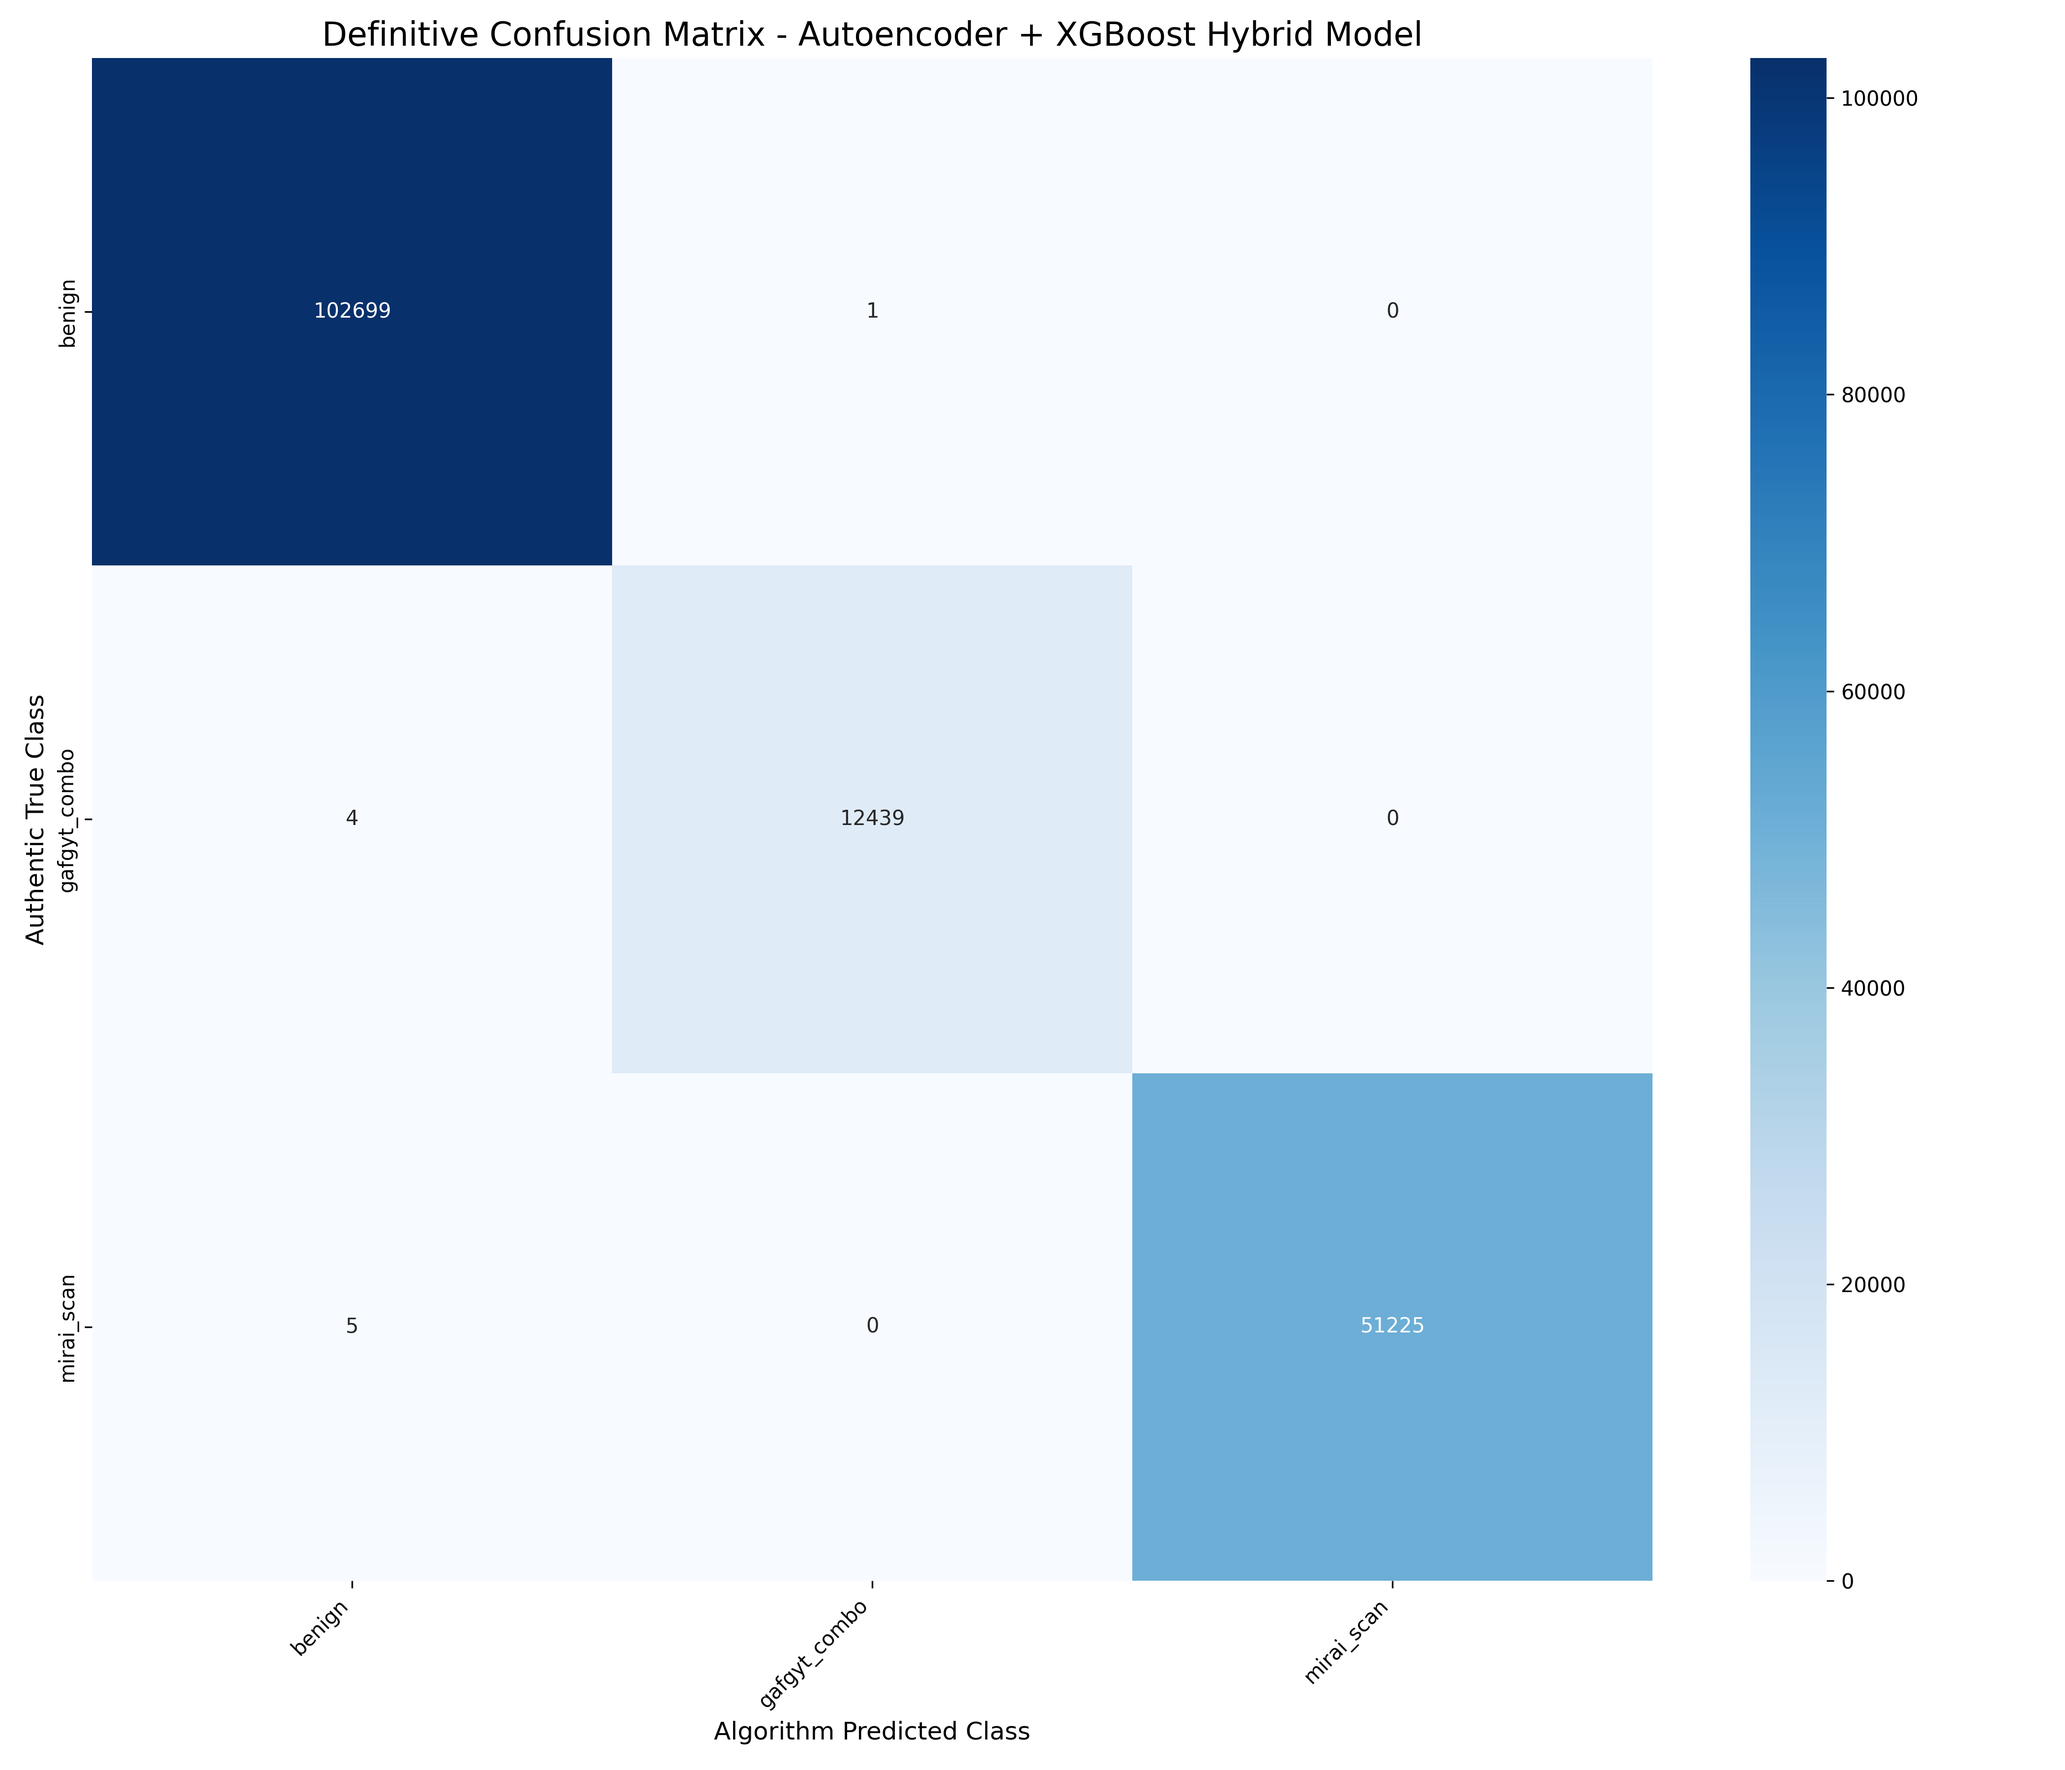
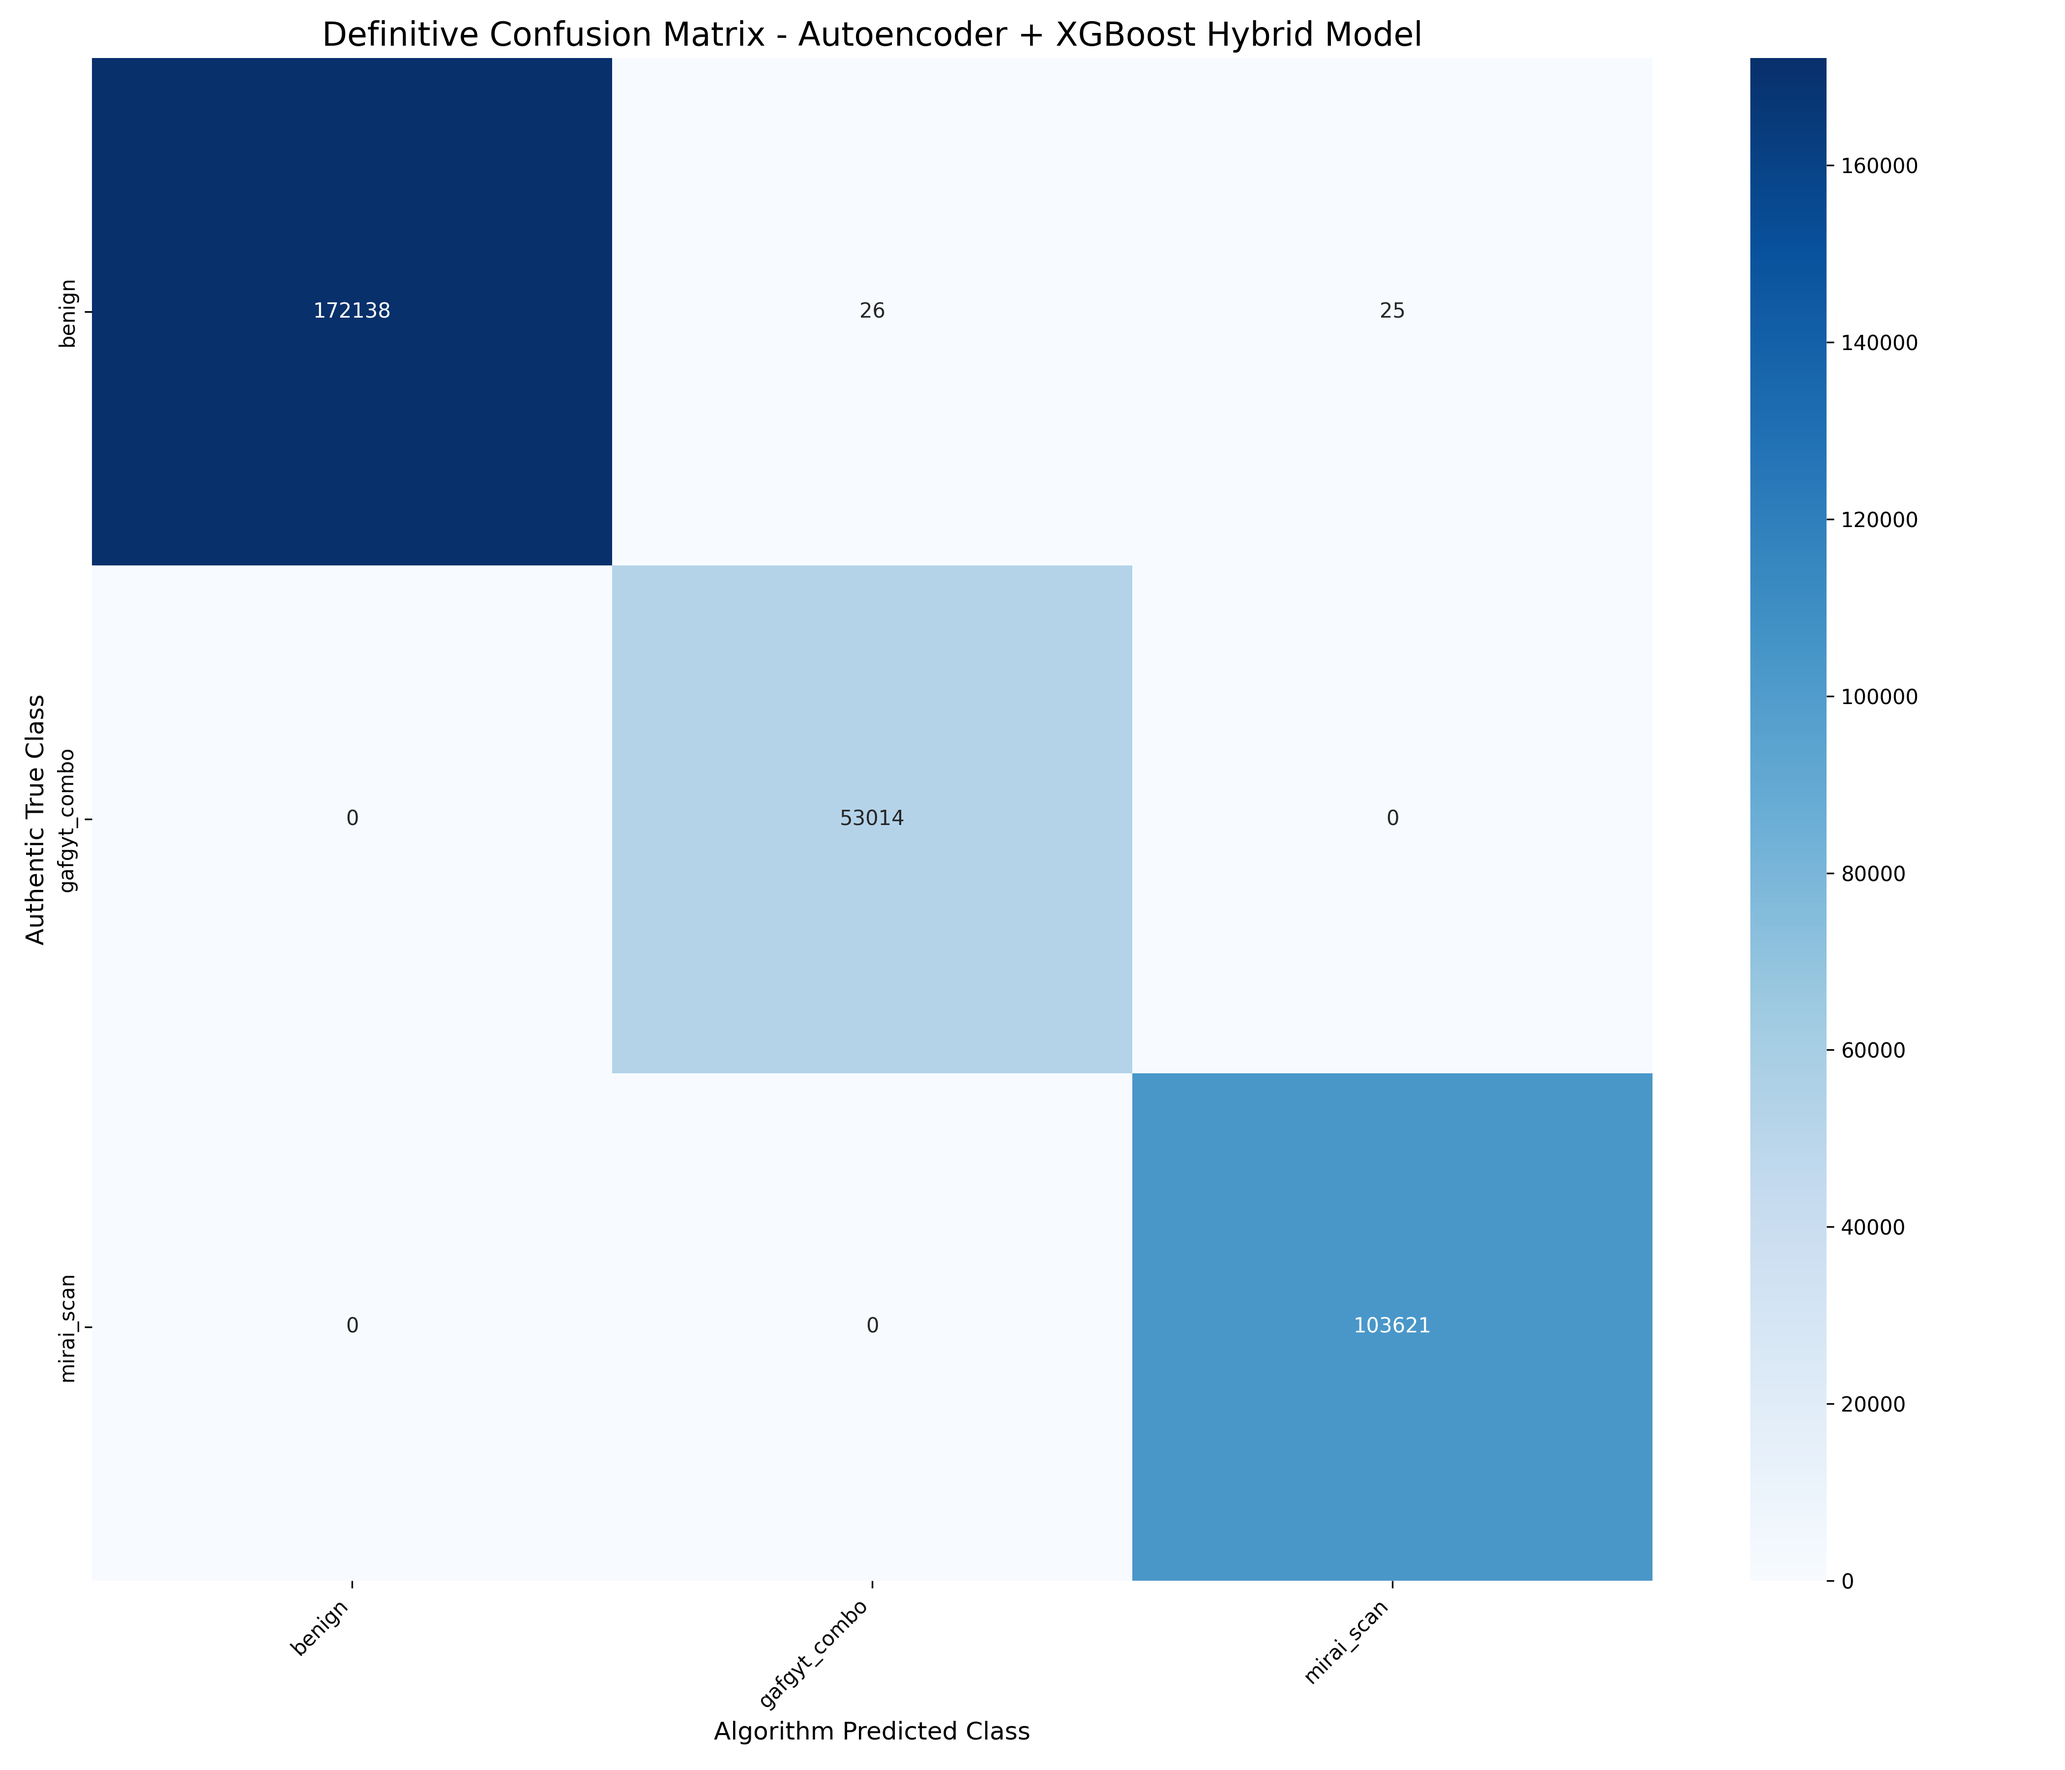
next change

Changed region(s): [[0.2807, 0.3111, 0.811, 0.9022], [0.9045, 0.3733, 0.9357, 0.4044], [0.156, 0.1556, 0.1871, 0.1867]]

diff --git a/preprocess.py b/preprocess.py
@@ -45,7 +45,7 @@ def preprocess_data(df):
           f"Optimized Matrix Shape: {df.shape}")
     
     # 2.2 Segregation of continuous features and discrete categorical targets
-    feature_df = df.drop('Target_Label', axis=1).apply(pd.to_numeric, errors='coerce').fillna(0.0)
+    feature_df = df.drop(['Target_Label', 'Source_File', 'Split'], axis=1).apply(pd.to_numeric, errors='coerce').fillna(0.0)
     X = feature_df.values
     y_text = df['Target_Label'].astype(str).values
     
@@ -55,9 +55,15 @@ def preprocess_data(df):
     
     # 2.4 Data Segregation: 80% Training Matrix, 20% Evaluation Matrix
     # Stratification mathematically guarantees proportional class representation in both splits
-    X_train, X_test, y_train, y_test = train_test_split(
-        X, y_encoded, test_size=0.20, random_state=42, stratify=y_encoded
-    )
+    if 'Split' not in df.columns:
+        raise KeyError("Split column missing. Re-run data loading with updated load_data.py.")
+    train_mask = df['Split'].astype(str).eq('train').values
+    test_mask = df['Split'].astype(str).eq('test').values
+
+    X_train = X[train_mask]
+    X_test = X[test_mask]
+    y_train = y_encoded[train_mask]
+    y_test = y_encoded[test_mask]
     
     # 2.5 Z-score Normalization (StandardScaler)
     # The scaler is strictly fitted ONLY on training data to prevent temporal data leakage
@@ -68,7 +74,17 @@ def preprocess_data(df):
     # 2.6 Geometric Class Balancing via SMOTE
     # SMOTE is applied EXCLUSIVELY to the training matrix to preserve realistic evaluation conditions
     print(" Executing SMOTE Synthetic Over-sampling on training matrix...")
-    smote = SMOTE(random_state=42)
+    class_counts = pd.Series(y_train).value_counts()
+    majority_count = int(class_counts.max())
+    target_count = int(majority_count * 0.5)
+
+    sampling_strategy = {
+        int(cls): int(target_count)
+        for cls, count in class_counts.items()
+        if int(count) < int(target_count)
+    }
+
+    smote = SMOTE(random_state=42, sampling_strategy=sampling_strategy)
     X_train_balanced, y_train_balanced = smote.fit_resample(X_train_scaled, y_train)
     print(f" SMOTE Protocol Complete. Balanced Training Matrix Shape: {X_train_balanced.shape}")
     

diff --git a/load_data.py b/load_data.py
@@ -44,6 +44,12 @@ def load_and_aggregate_data(data_dir='dataset/'):
     if not all_files:
         raise FileNotFoundError(f"CRITICAL ERROR: No CSV files located in '{data_dir}'. "
                                 f"Please populate the directory with N-BaIoT data files.")
+
+    rng = np.random.RandomState(42)
+    shuffled_files = all_files.copy()
+    rng.shuffle(shuffled_files)
+    split_idx = int(len(shuffled_files) * 0.8)
+    train_files = set(shuffled_files[:split_idx])
     
     df_list = []
     for file in all_files:
@@ -85,6 +91,8 @@ def load_and_aggregate_data(data_dir='dataset/'):
 
         for chunk_df in chunk_iter:
             chunk_df["Target_Label"] = label
+            chunk_df["Source_File"] = os.path.basename(file)
+            chunk_df["Split"] = "train" if file in train_files else "test"
             df_list.append(chunk_df)
         
     # Concatenate all device and attack traffic into a single continuous matrix
